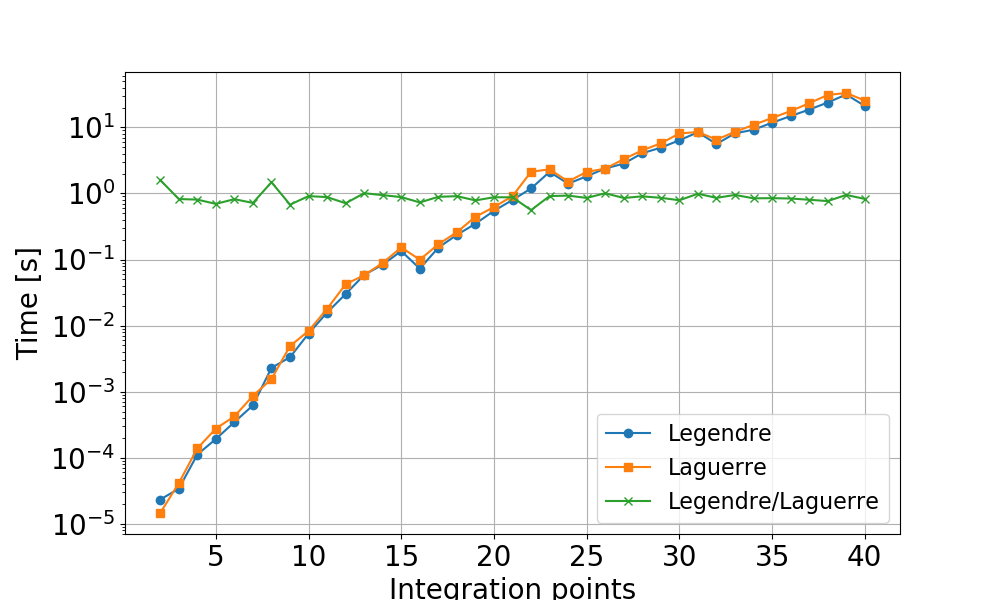
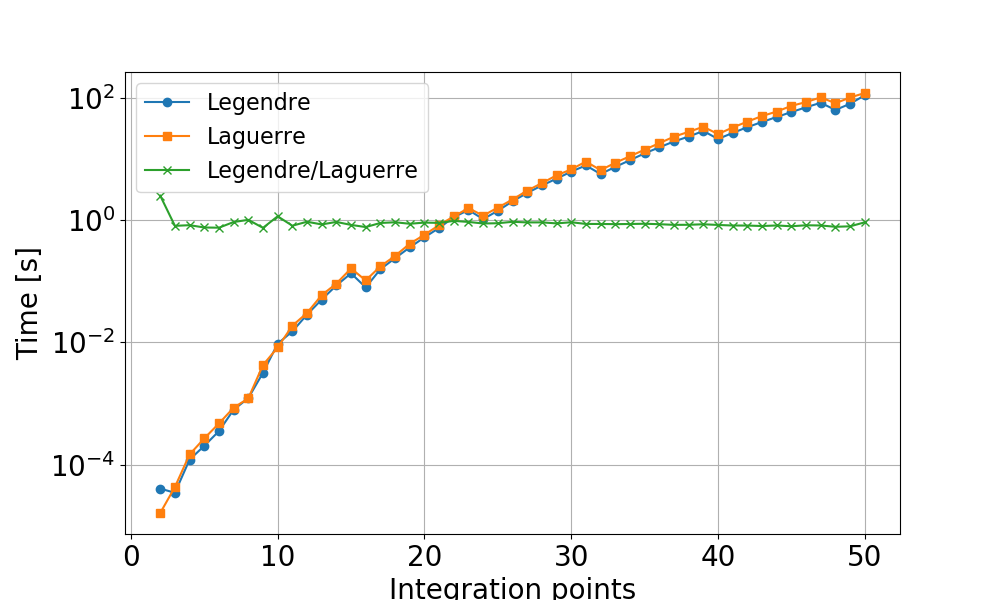
Add results and figures from large run, small modifications of plotting code

diff --git a/Project3/src/python/post_process.py b/Project3/src/python/post_process.py
@@ -2,7 +2,6 @@ import pandas as pd
 import matplotlib.pyplot as plt
 import argparse
 import numpy as np
-import scipy.stats as st
 import matplotlib as mpl
 
 # Figure settings
@@ -97,6 +96,7 @@ if __name__ == '__main__':
     # "3D" plot of std, error and time
     plt.xscale('log')
     plt.yscale('log')
+    plt.grid()
     ax1 = plt.scatter(mc['std_importance'], mc['error_importance'],c=np.log10(mc['time_importance_pl']),marker='o', cmap='Oranges')
     ax2 = plt.scatter(mc['std_brute_pl'], mc['error_brute_pl'],c=np.log10(mc['time_brute_pl']),marker='s', cmap='Greens')
     plt.xlabel('Standard deviation')
